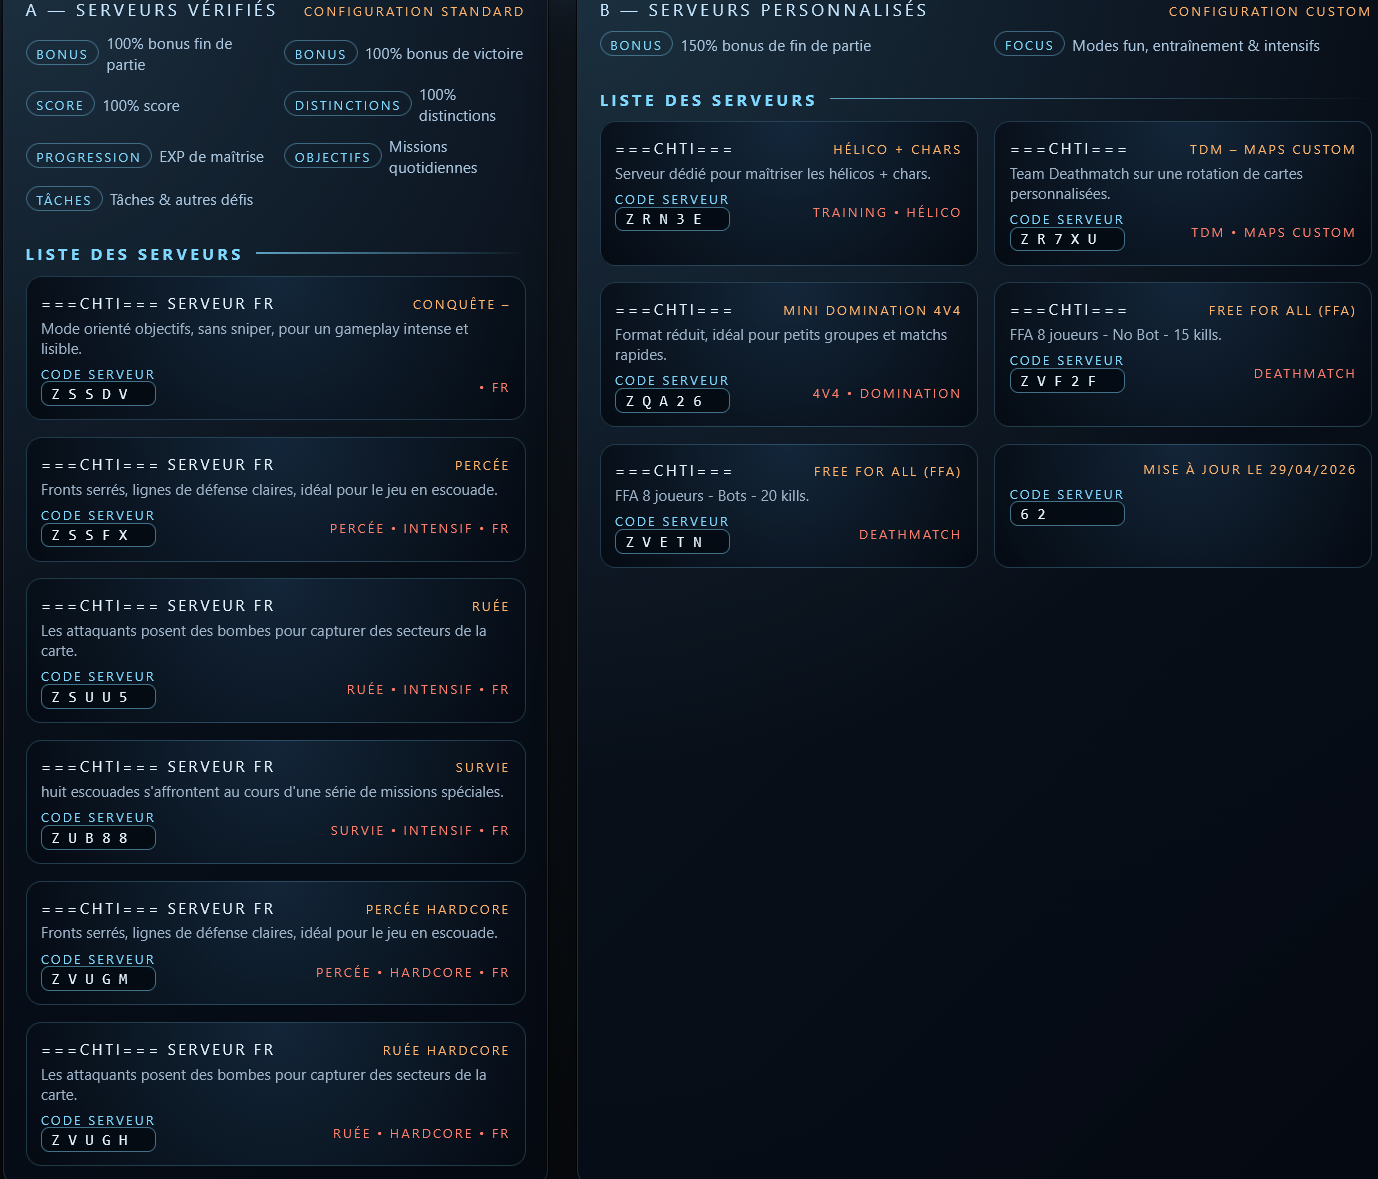
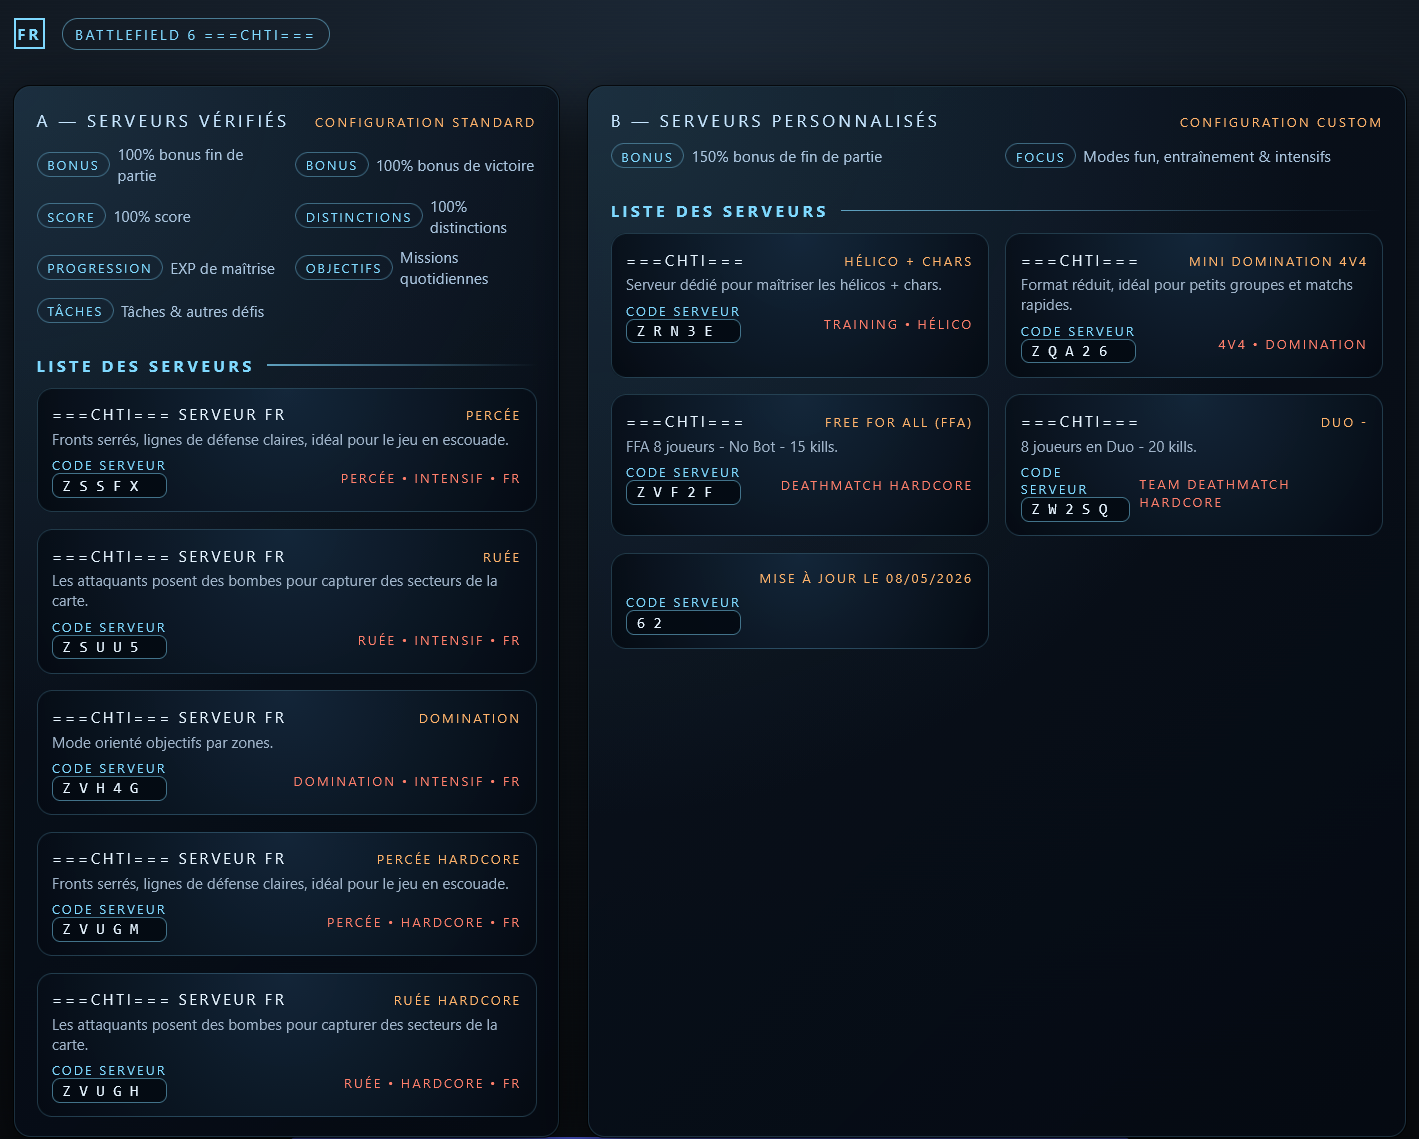
Add files via upload

diff --git a/index.html b/index.html
@@ -378,23 +378,8 @@
             </h2>
 
             <div class="server-list">
-                <!-- Serveur 1 -->
-                <article class="server-card">
-                    <div class="server-topline">
-                        <div class="server-name">===CHTI=== Serveur FR</div>
-                        <div class="server-mode">Conquête – </div>
-                    </div>
-                    <div class="server-sub">Mode orienté objectifs, sans sniper, pour un gameplay intense et lisible.</div>
-                    <div class="server-meta">
-                        <div>
-                            <div class="server-code-label">Code serveur</div>
-                            <div class="server-code">Z S S D V</div>
-                        </div>
-                        <div class="server-tagline">• FR</div>
-                    </div>
-                </article>
 
-                <!-- Serveur 2 -->
+                <!-- Serveur 1 -->
                 <article class="server-card">
                     <div class="server-topline">
                         <div class="server-name">===CHTI=== Serveur FR</div>
@@ -410,7 +395,7 @@
                     </div>
                 </article>
                 
-                <!-- Serveur 3 -->
+                <!-- Serveur 2 -->
                 <article class="server-card">
                     <div class="server-topline">
                         <div class="server-name">===CHTI=== Serveur FR</div>
@@ -426,23 +411,23 @@
                     </div>
                 </article>
                 
-                <!-- Serveur 4 -->
+                <!-- Serveur 3 -->
                 <article class="server-card">
                     <div class="server-topline">
                         <div class="server-name">===CHTI=== Serveur FR</div>
-                        <div class="server-mode">SURVIE</div>
+                        <div class="server-mode">Domination</div>
                     </div>
-                    <div class="server-sub">huit escouades s'affrontent au cours d'une série de missions spéciales.</div>
+                    <div class="server-sub">Mode orienté objectifs par zones.</div>
                     <div class="server-meta">
                         <div>
                             <div class="server-code-label">Code serveur</div>
-                            <div class="server-code">Z U B 8 8</div>
+                            <div class="server-code">Z V H 4 G</div>
                         </div>
-                        <div class="server-tagline">Survie • Intensif • FR</div>
+                        <div class="server-tagline">Domination • Intensif • FR</div>
                     </div>
                 </article>
                 
-                <!-- Serveur 5 -->
+                <!-- Serveur 4 -->
                 <article class="server-card">
                     <div class="server-topline">
                         <div class="server-name">===CHTI=== Serveur FR</div>
@@ -458,7 +443,7 @@
                     </div>
                 </article>
                 
-                <!-- Serveur 6 -->
+                <!-- Serveur 5 -->
                 <article class="server-card">
                     <div class="server-topline">
                         <div class="server-name">===CHTI=== Serveur FR</div>
@@ -519,22 +504,6 @@
                 <article class="server-card">
                     <div class="server-topline">
                         <div class="server-name">===CHTI===</div>
-                        <div class="server-mode">TDM – Maps custom</div>
-                    </div>
-                    <div class="server-sub">Team Deathmatch sur une rotation de cartes personnalisées.</div>
-                    <div class="server-meta">
-                        <div>
-                            <div class="server-code-label">Code serveur</div>
-                            <div class="server-code">Z R 7 X U</div>
-                        </div>
-                        <div class="server-tagline">TDM • Maps custom</div>
-                    </div>
-                </article>
-
-                <!-- Serveur B3 -->
-                <article class="server-card">
-                    <div class="server-topline">
-                        <div class="server-name">===CHTI===</div>
                         <div class="server-mode">Mini Domination 4v4</div>
                     </div>
                     <div class="server-sub">Format réduit, idéal pour petits groupes et matchs rapides.</div>
@@ -560,7 +529,7 @@
                             <div class="server-code-label">Code serveur</div>
                             <div class="server-code">Z V F 2 F</div>
                         </div>
-                        <div class="server-tagline">Deathmatch</div>
+                        <div class="server-tagline">Deathmatch HARDCORE</div>
                     </div>
                 </article>
                 
@@ -568,23 +537,24 @@
                 <article class="server-card">
                     <div class="server-topline">
                         <div class="server-name">===CHTI===</div>
-                        <div class="server-mode">Free For All (FFA) </div>
+                        <div class="server-mode">Duo - </div>
                     </div>
-                    <div class="server-sub">FFA 8 joueurs - Bots - 20 kills.</div>
+                    <div class="server-sub">8 joueurs en Duo - 20 kills.</div>
                     <div class="server-meta">
                         <div>
                             <div class="server-code-label">Code serveur</div>
-                            <div class="server-code">Z V E T N</div>
+                            <div class="server-code">Z W 2 S Q</div>
                         </div>
-                        <div class="server-tagline">Deathmatch</div>
+                        <div class="server-tagline">Team Deathmatch HARDCORE</div>
                     </div>
                 </article>
+                
                 
                 <!-- Information -->
                 <article class="server-card">
                     <div class="server-topline">
                         <div class="server-name"></div>
-                        <div class="server-mode">Mise à jour le 29/04/2026</div>
+                        <div class="server-mode">Mise à jour le 08/05/2026</div>
                     </div>
                     <div class="server-sub"></div>
                     <div class="server-meta">
